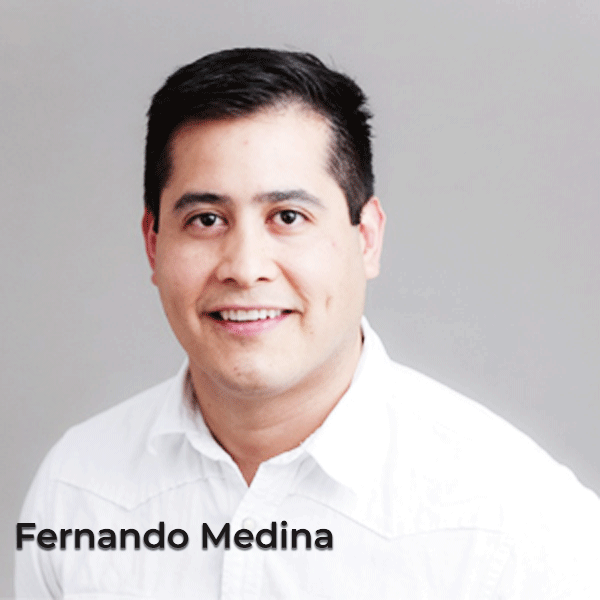
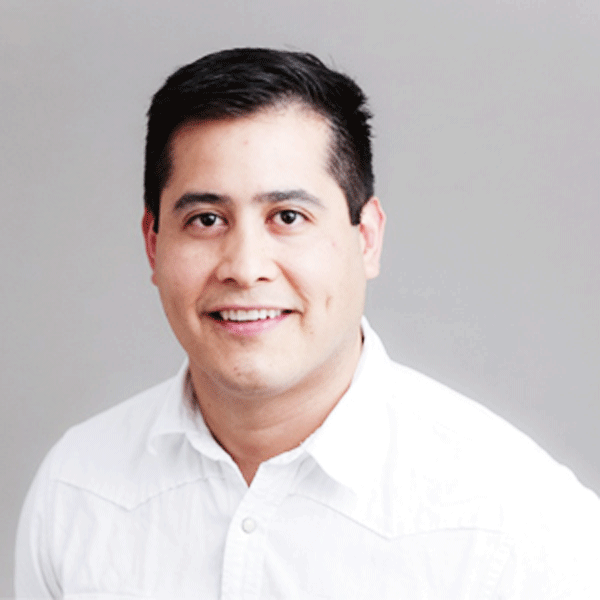
removed names from photos

Changed region(s): [[0.0, 0.87, 0.57, 0.93]]

diff --git a/index.html b/index.html
@@ -88,6 +88,7 @@
                <div class="card">
                   <img class="card-img-top" src="./images/Fernando.png" alt="Card image cap">
                   <div class="card-body">
+                     <h3 class="card-name">Fernando Medina</h5>
                      <h5 class="card-title">Full-Stack Developer</h5>
                      <p class="card-text">I help to design and build web products and maintain a wide focus on all layers of the project at hand, Front and Back-End. Technology is my passion.</p>
                   </div>
@@ -101,6 +102,7 @@
                <div class="card">
                   <img class="card-img-top" src="./images/Erika.png" alt="Card image cap">
                   <div class="card-body">
+                     <h3 class="card-name">Erika Matsumoto</h5>
                      <h5 class="card-title">Graphic Designer</h5>
                      <p class="card-text">Here we need a brief summary of your super powers skills as a developer please express yourself and keep austin weird!</p>
                   </div>
@@ -114,6 +116,7 @@
                <div class="card">
                   <img class="card-img-top" src="..." alt="Card image cap">
                   <div class="card-body">
+                     <h3 class="card-name">Daniel Palacios</h5>
                      <h5 class="card-title">Card title</h5>
                      <p class="card-text">This is a wider card with supporting text below as a natural lead-in to additional content. This card has even longer content than the first to show that equal height action.</p>
                   </div>
@@ -273,6 +276,7 @@
                               <li>3 Revisions</li>
                               <li>Mobile Friendly Design</li>
                               <li>Managed AWS Hosting</li>
+                              <li>Search Engine Optimization (SEO)</li>
                               <li>Free TLS/SSl Certificate (https)</li>
                               <li>Complete ownership of Source Code</li>
                               <li>100% Money Back Guarantee!</li>
@@ -281,13 +285,15 @@
                               <br/>
                               <br/>
                               <br/>
-
+                              <br/>
+                              <br/>
+                              <br/>
                            </ul>
                         </div>
                      </div>
                      <div id="card_footer_left" class="row">
                         <div class="col-md-12">
-                           <a href="#" class="btn">Get A Quote</a>
+                           <a href="#contact" class="btn">Get A Quote</a>
                         </div>
                      </div>
                   </div>
@@ -313,6 +319,9 @@
                               <li>Free TLS/SSl Certificate (https)</li>
                               <li>Complete ownership of Source Code</li>
                               <li>100% Money Back Guarantee</li>
+                              <li>Search Engine Optimization (SEO)</li>
+                              <li>E-commerce Functionality</li>
+                              <li>Free Domain Name & Registration</li>
                               <br/>
                               <br/>
                               <br/>
@@ -324,8 +333,8 @@
                      </div>
                      <div id="card_footer_center" class="row">
                         <div class="col-md-12">
-                           <a href="#" class="btn">More Info</a>
-                        </div>
+                              <a href="#contact" class="btn">Get A Quote</a>
+                           </div>
                      </div>
                   </div>
 
@@ -353,13 +362,16 @@
                               <li>Free TLS/SSl Certificate (https)</li>
                               <li>Complete ownership of Source Code</li>
                               <li>100% Money Back Guarantee</li>
+                              <li>Search Engine Optimization (SEO)</li>
+                              <li>E-commerce Functionality</li>
+                              <li>Free Domain Name & Registration</li>
                            </ul>
                         </div>
                      </div>
                      <div id="card_footer_right" class="row">
                         <div class="col-md-12">
-                           <a href="#" class="btn">More Info</a>
-                        </div>
+                              <a href="#contact" class="btn">Get A Quote</a>
+                           </div>
                      </div>
                   </div>
                </div>

diff --git a/css/style.css b/css/style.css
@@ -292,6 +292,9 @@ html body #title_underline{
 .card-title{
    color: rgba(252, 0, 0, 0.79)
 }
+.card-name{
+   font-size: 30px
+}
 
 /*---------------------------------------
    | Services Section |
